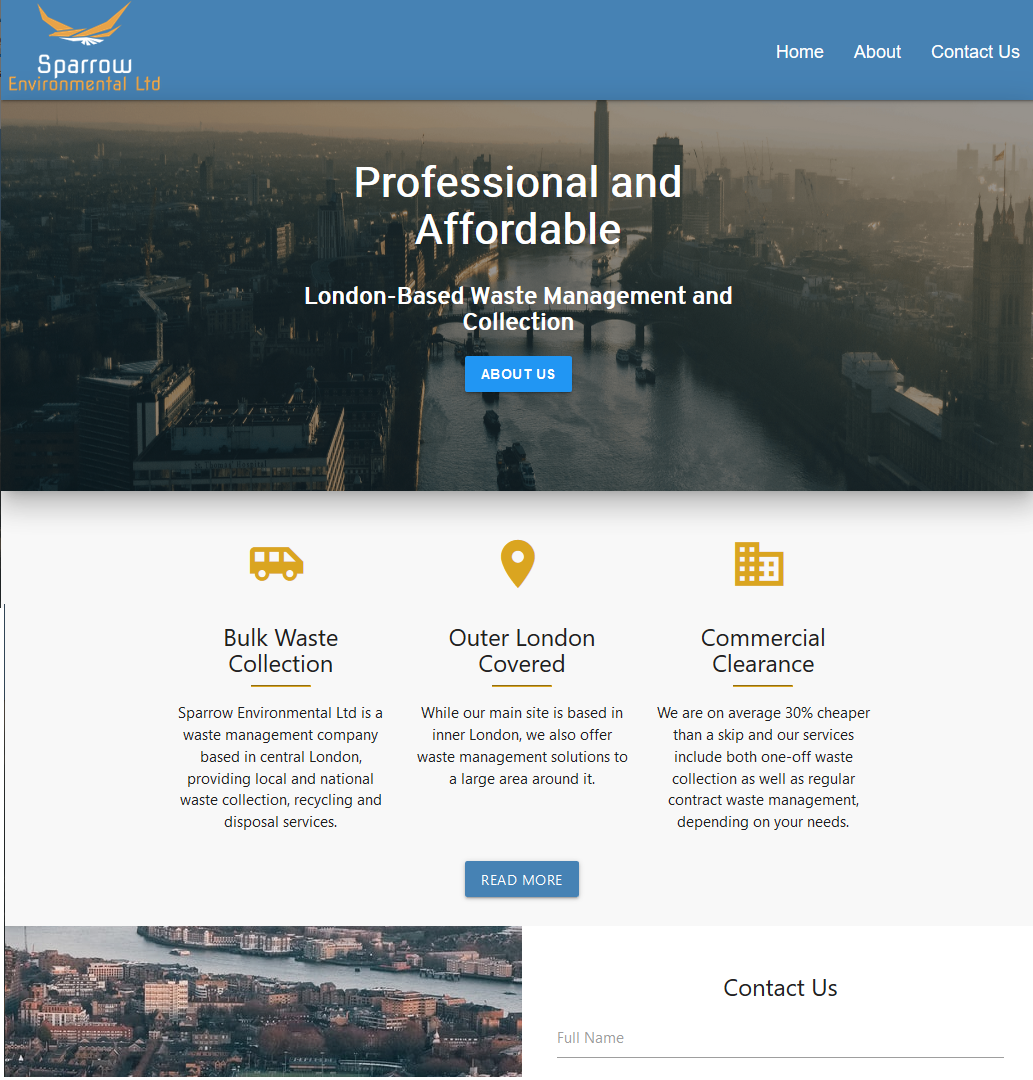
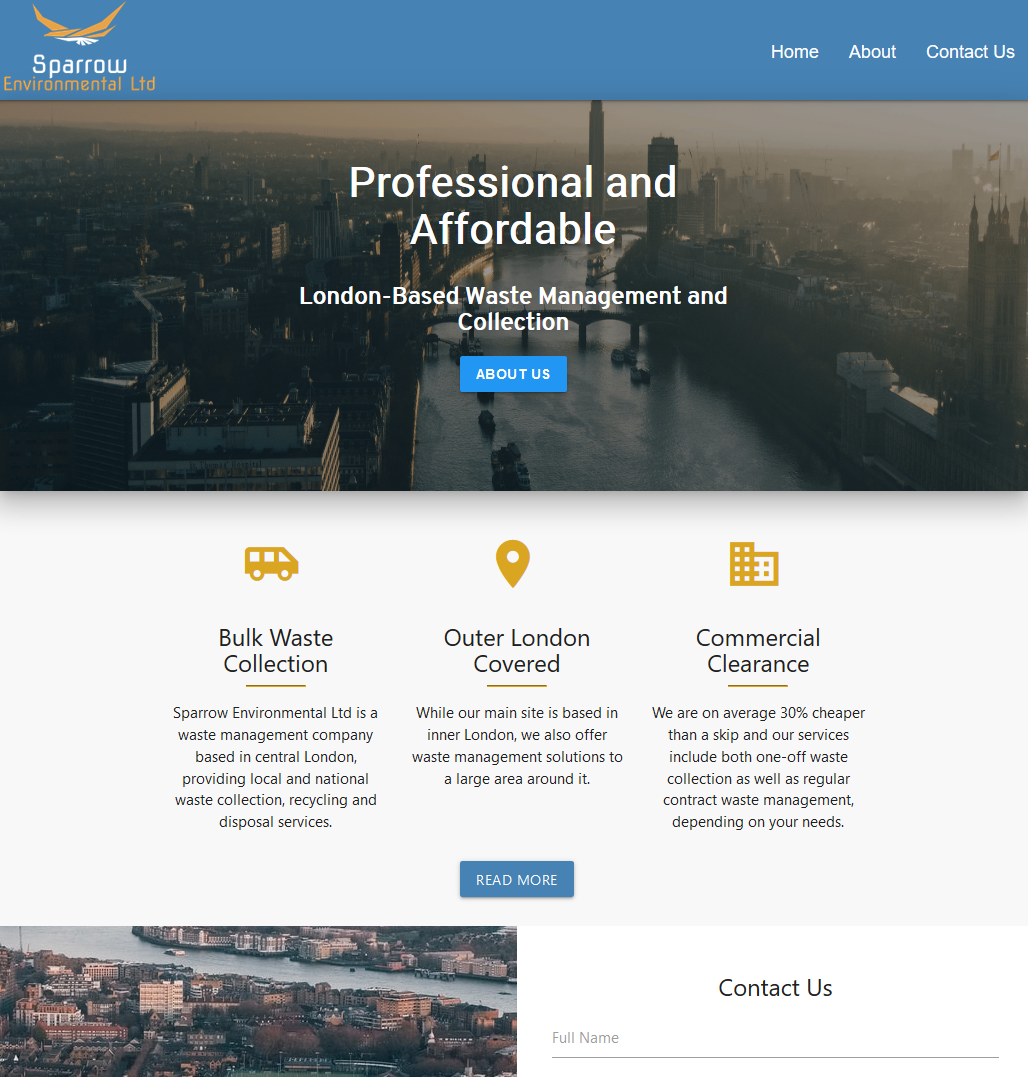
clipped large sparrow image, removed excess images, changed main colour of site, changed nav elements to scroll

diff --git a/Question.html b/Question.html
@@ -18,22 +18,19 @@
               <div class="collapse navbar-collapse" id="navbarToggler">
                   <ul class="navbar-nav ml-auto justify-content-between">
                     <li class="nav-item">
-                      <span class="nav-link hidden-desktop">Contact:</span>
+                      <span class="hidden-desktop bold">Scroll To...</span>
                     </li>
                     <li class="nav-item">
-                      <a class="nav-link" href="https://twitter.com/HowtoreadUK">
-                        <img class="white" src="img/twitter.svg" />
-                        <span>Twitter</span>
-                      </a>
+                      <a class="nav-link" href="#about"><span>Contact</span></a>
                     </li>
                     <li class="nav-item">
-                      <a class="nav-link" href="https://github.com/CountercheckL"><img src="img/git.svg" />
-                      <span>Github</span>
-                      </a>
+                      <a class="nav-link" href="#projects"><span>My Projects</span></a>
                     </li>
                     <li class="nav-item">
-                      <a class="nav-link" href="mailto:laurencecollins@hotmail.co.uk"><img class="mail" src="img/mail.svg" />
-                        <span>Email</span>
+                      <span class="hidden-desktop bold">Or Visit...</span>
+                    </li>
+                    <li class="nav-item">
+                      <a class="nav-link" href="https://github.com/CountercheckL"><span>My Github</span>
                       </a>
                     </li>
                   </ul>
@@ -63,21 +60,26 @@
         <h2 class="bg-text-title">Laurence Collins</h2>
         <h3 class="bg-text-subtitle">London, U.K</h3>
       </div>
-
       <div class="container">
         <div class="about">
-          <h2>About</h2>
+          <h2 id="about">About</h2>
           <br />
           <p>Welcome! My name is Laurence Collins, currently based in the U.K. I'm an avid learner who is interested in a wealth of 
           tech-focused subjects, and I’ve been teaching myself web development for a little
           over a year now. I'm currently looking for my first professional role in the field, although I have already done 
               some work independantly.</p>
           <p>In terms of tech, I'm familiar with HTML, CSS, Javascript, React, Python and Django.</p>
+          <br />
+          <a id="contact" href="mailto:laurencecollins@hotmail.co.uk">
+              <button type="button" class="btn btn-outline-primary btn-lg">
+                  <img src="img/mail.svg" class="icons" />
+                  <span class="space"></span>
+                  Contact Me</button> 
+          </a>    
         </div>
-      
-      <div class="project-list">
+      <div class="project-list" id="projects">
            <h2 class="fadein">Projects</h2>  
-           <br />
+           <hr />
           <div class="card genreprompt fadein">
             <div class="row">
             <div class="genreprompt-text col-lg-6 col-sm-12">

diff --git a/Question.css b/Question.css
@@ -25,6 +25,10 @@ body {
     color: #f8f9fa !important;    
 }
 
+.bold {
+    font-weight: bold;
+}
+
 @media screen and (min-width: 1000px) {
     .hidden-desktop  { display: none; }
 }
@@ -38,11 +42,11 @@ body {
 
 .splash-container {
     width: 100%;
-    height: 21rem;
+    height: 24rem;
     background-image: url("comp copy.jpg");
     color: white;
-    border-bottom: 4px solid red;
-    border-top: 4px solid red;
+    border-bottom: 4px solid #17a2b8;
+    border-top: 4px solid #17a2b8;
     text-align: center !important;
     font-family: sans-serif;
 }
@@ -64,10 +68,40 @@ body {
 h2 {
     font-family: 'roboto', sans-serif; 
 }
+
 .about {
     padding: 4rem 6rem 2rem 6rem;
 }  
 
+.btn-lg {
+    height: 4rem;
+    width: 15rem;
+    color: #17a2b8
+
+}
+
+.btn-outline-primary {
+    border-color: #17a2b8
+}
+
+.btn:hover {
+   transform: scale(1.1) perspective(1px);
+   background-color: #17a2b8;
+   border-color: #17a2b8;
+
+
+}
+
+
+
+.space {
+    padding: 0.5rem;
+}
+.icons {
+    font-size: 55px;
+    height: 2rem;
+    width: 2rem;
+}
 
 .foot {
     background-color :#f2f2f2;
@@ -117,9 +151,7 @@ h2 {
     align-items: center !important;
 }
 
-.mail {
-    height: 2rem;
-    width: auto;
-    color: grey;
+.project-list {
+    padding-top: 2rem;
+
 }
-    

diff --git a/Question.js b/Question.js
@@ -13,4 +13,6 @@ $(window).on("load",function() {
       }).scroll(); //invokes scroll-handler on page-load
      });
 
-
+$(document).ready(function(){
+  $('.scrollspy').scrollSpy();
+});
